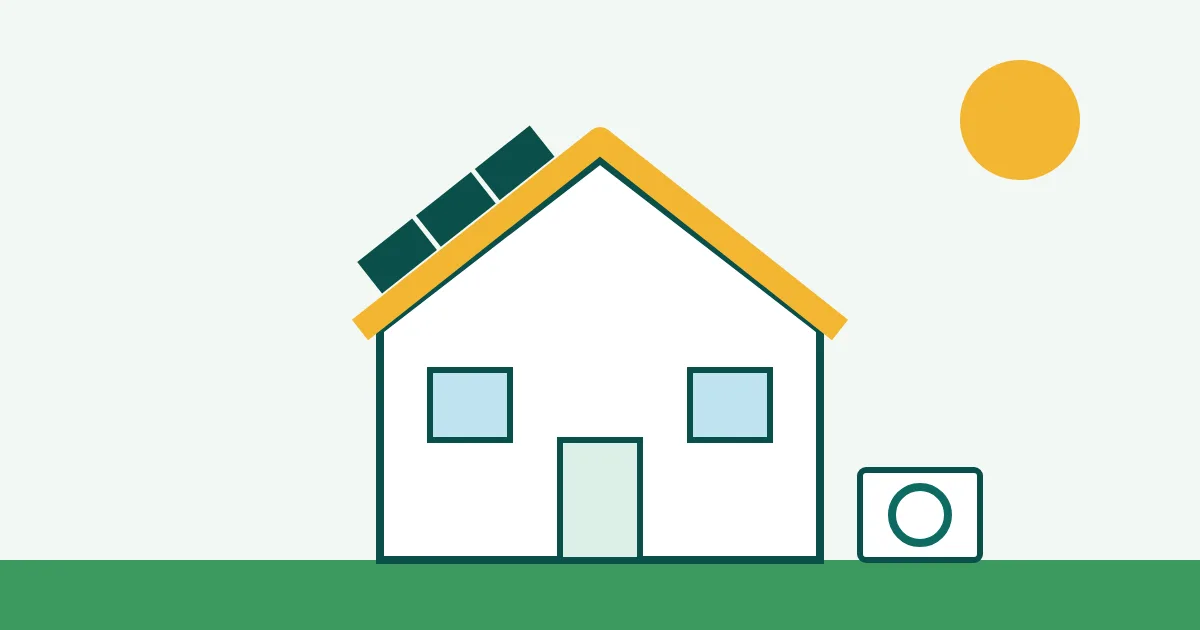
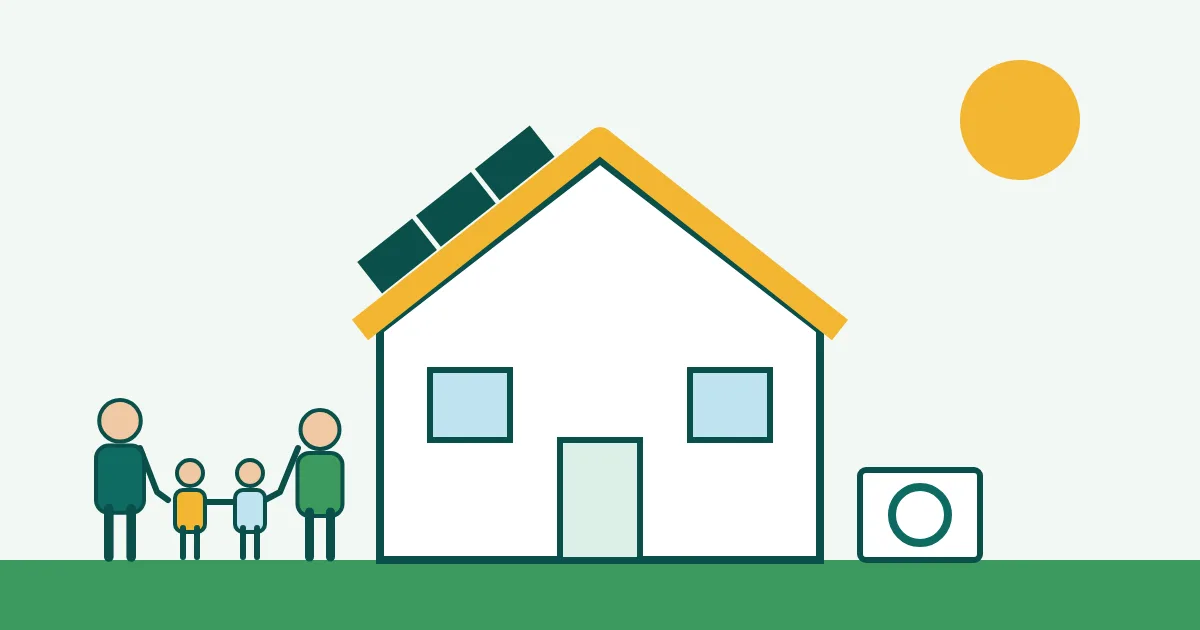
Gezin op grasveld

Changed region(s): [[0.0617, 0.6333, 0.3083, 0.9048]]

diff --git a/scripts/images.py b/scripts/images.py
@@ -6,8 +6,11 @@ house=f'<path d="M380 330 600 160l220 170v230H380z" fill="{W}" stroke="{D}" stro
 ground=f'<rect x="0" y="560" width="1200" height="70" fill="{L}"/>'
 sun=f'<circle cx="1020" cy="120" r="60" fill="{S}"/>'
 roofins=f'<path d="M360 330 600 140l240 190" fill="none" stroke="{S}" stroke-width="26" stroke-linejoin="round"/>'
+def person(x,h,c):
+    r=h*0.13;return f'<g><circle cx="{x}" cy="{560-h+r}" r="{r}" fill="#f1c9a5" stroke="{D}" stroke-width="4"/><rect x="{x-h*0.15}" y="{560-h+2*r+4}" width="{h*0.3}" height="{h*0.42}" rx="{h*0.08}" fill="{c}" stroke="{D}" stroke-width="4"/><path d="M{x-h*0.07} {560-h*0.32}V557M{x+h*0.07} {560-h*0.32}V557" stroke="{D}" stroke-width="{max(6,h*0.06)}" stroke-linecap="round"/></g>'
+fam=f'<path d="M140 448L157 492L168 500M205 502L235 502M265 500L280 492L298 448" fill="none" stroke="{D}" stroke-width="6" stroke-linecap="round" stroke-linejoin="round"/>'+person(120,160,T)+person(190,100,S)+person(250,100,'#bfe3f0')+person(320,150,L)
 art={
-'home':sun+ground+house+roofins+f'<g transform="translate(860 470)"><rect width="120" height="90" rx="6" fill="{W}" stroke="{D}" stroke-width="6"/><circle cx="60" cy="45" r="28" fill="none" stroke="{T}" stroke-width="8"/></g><g transform="translate(360 330) rotate(-38.37)"><rect x="40" y="-55" width="70" height="40" fill="{D}"/><rect x="115" y="-55" width="70" height="40" fill="{D}"/><rect x="190" y="-55" width="70" height="40" fill="{D}"/></g>',
+'home':sun+ground+house+roofins+fam+f'<g transform="translate(860 470)"><rect width="120" height="90" rx="6" fill="{W}" stroke="{D}" stroke-width="6"/><circle cx="60" cy="45" r="28" fill="none" stroke="{T}" stroke-width="8"/></g><g transform="translate(360 330) rotate(-38.37)"><rect x="40" y="-55" width="70" height="40" fill="{D}"/><rect x="115" y="-55" width="70" height="40" fill="{D}"/><rect x="190" y="-55" width="70" height="40" fill="{D}"/></g>',
 'spouwmuurisolatie-kosten':ground+f'<rect x="380" y="120" width="140" height="440" fill="#c86b4a"/><rect x="520" y="120" width="120" height="440" fill="{S}"/><rect x="640" y="120" width="140" height="440" fill="#d9d2c5"/>'+''.join(f'<line x1="380" y1="{y}" x2="520" y2="{y}" stroke="#fff" stroke-width="4"/>' for y in range(150,560,40))+''.join(f'<circle cx="{560+(i%3)*25}" cy="{150+i*22}" r="9" fill="#fff8e4"/>' for i in range(18))+f'<path d="M180 300h200" stroke="{T}" stroke-width="18"/><path d="M360 280l30 20-30 20z" fill="{T}"/>',
 'dakisolatie-kosten':sun+ground+house+f'<path d="M340 330 600 125l260 205" fill="none" stroke="{S}" stroke-width="44" stroke-linejoin="round"/><path d="M330 320 600 105l270 215" fill="none" stroke="#c86b4a" stroke-width="14" stroke-linejoin="round"/>',
 'vloerisolatie-kosten':f'<rect x="200" y="140" width="800" height="240" fill="{W}" stroke="{D}" stroke-width="8"/><rect x="200" y="380" width="800" height="30" fill="#8a6a4a"/><rect x="200" y="410" width="800" height="50" fill="{S}"/><rect x="200" y="460" width="800" height="120" fill="#b9a68f"/>'+''.join(f'<rect x="{x}" y="380" width="22" height="80" fill="#6f533a"/>' for x in range(240,1000,120))+f'<path d="M300 300c40-40 80 40 120 0" stroke="{T}" stroke-width="10" fill="none"/>',
